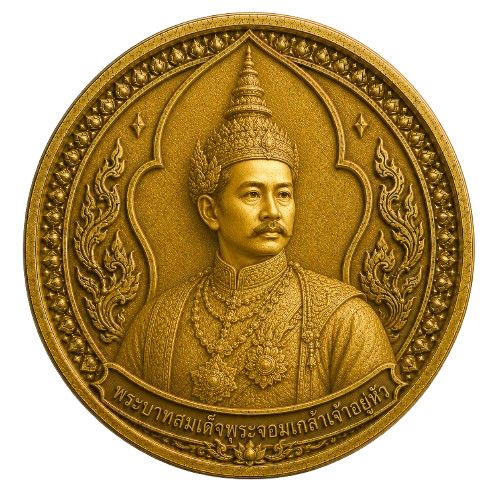
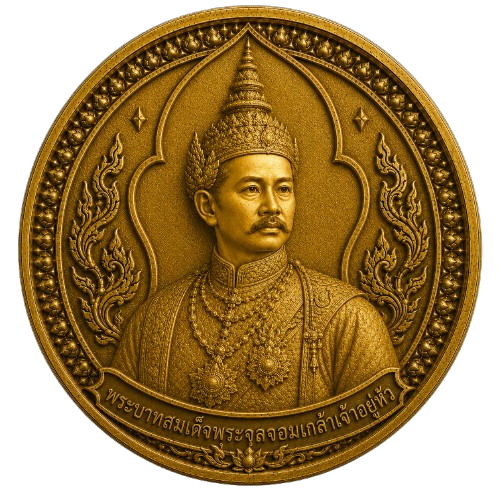
Tell Rama IV and Rama V apart on coins, cards and labels
Checking the two Rattanakosin kings against each other turned up three
places where they were indistinguishable, none of them in the data:
kings.json, cards.json and board-layout.json all bind the right king to
the right card and tile.

- The Rama V coin was engraved "พระบาทสมเด็จพระจอมเกล้าเจ้าอยู่หัว", the
  same caption as the Rama IV coin, missing "จุล". The portraits differ,
  the lettering did not. New art replaces it. That coin renders in five
  places, the HUD and the museum among them, so a player collecting all
  seven saw the same name twice.

- seed.sql filled gold_quiz with SELECT ... FROM quiz, which is exactly
  what CLAUDE.md rules out. A teacher who seeded the database and let the
  game sync got two gold cards per king instead of one, drawn at random,
  with questions that do not match the ones printed on the physical AR
  cards the children are holding. The seven rows are now written out
  from cards.json.gold, in kings.json order, rewards back at 120.

- Every short-name helper drops the "(รัชกาลที่ ๔)" suffix, leaving
  Rama I, IV and V sharing a fifteen character prefix. Two labels then
  clip that with nowrap and ellipsis, so all three read
  "พระบาทสมเด็จพร…". kingShortLabel drops the honorific and leads with
  the reign number instead, which puts what distinguishes them in the
  first three characters no matter how hard the text is cut.

The collection card also stops clipping to one line. Its text column is
[…]

diff --git a/src/components/KingCollection.tsx b/src/components/KingCollection.tsx
@@ -1,6 +1,6 @@
 import { useState } from 'react';
 import { useGame, clampTargetCoins } from '@/core/store';
-import { KINGS } from '@/core/content';
+import { KINGS, kingShortLabel } from '@/core/content';
 import { getKingCoinImage } from '@/core/kingAssets';
 import { color, radius } from '@/theme/tokens';
 import { KingDetailModal } from './KingDetailModal';
@@ -135,12 +135,18 @@ export function KingCollection() {
                     fontSize: 12,
                     fontWeight: 800,
                     color: color.text,
-                    whiteSpace: 'nowrap',
+                    lineHeight: 1.15,
+                    // ยอมให้ขึ้นบรรทัดสองแทน nowrap+ellipsis — ช่องนี้กว้างแค่ ~73px
+                    // (sidebar 280px) บรรทัดเดียวตัดเหลือ ~10 ตัว ซึ่งสั้นกว่าจุดที่
+                    // พระนเรศวร/พระนารายณ์ เริ่มต่างกัน (ตัวที่ 11) แถวสูง 44px รับ 2 บรรทัดได้
+                    display: '-webkit-box',
+                    WebkitLineClamp: 2,
+                    WebkitBoxOrient: 'vertical',
                     overflow: 'hidden',
-                    textOverflow: 'ellipsis',
+                    wordBreak: 'break-word',
                   }}
                 >
-                  {won ? shortName(k.name) : '❓ ยังไม่ได้'}
+                  {won ? kingShortLabel(k.name) : '❓ ยังไม่ได้'}
                 </div>
                 <div style={{ fontSize: 11, color: color.textMuted, fontWeight: 700 }}>{k.era}</div>
               </div>
@@ -155,11 +161,6 @@ export function KingCollection() {
       {museumOpen && <CollectionMuseumModal onClose={() => setMuseumOpen(false)} />}
     </div>
   );
-}
-
-// ตัดพระนามยาวให้พอดีการ์ด (เอาส่วนก่อนวงเล็บ)
-function shortName(name: string): string {
-  return name.split('(')[0].trim();
 }
 
 const coinGrid: React.CSSProperties = {

diff --git a/src/core/content.ts b/src/core/content.ts
@@ -22,6 +22,18 @@ const CACHE_KEY = 'bg7_content';
 export const OVERVIEW_KING_ID = 'king_overview';
 export const OVERVIEW_KING_LABEL = 'ภาพรวม 7 มหาราช';
 
+// ชื่อย่อสำหรับ "ช่องแคบที่ตัดด้วย ellipsis" เท่านั้น — ที่กว้างพอให้ใช้ king.name เต็ม
+// ⚠ ร.๑/ร.๔/ร.๕ ใช้คำนำหน้า "พระบาทสมเด็จพระ" ร่วมกัน 15 ตัวอักษร และ ร.๔/ร.๕ ต่างกัน
+// แค่ "จุล" ที่ตัวที่ 16 → ช่องแคบ ๆ (เช่นการ์ดสะสมในแถบข้าง กว้าง ~84px ≈ 13 ตัว) จะตัด
+// ก่อนถึงตัวที่แยกความต่างเสมอ แล้วทั้งสามพระองค์แสดงเป็น "พระบาทสมเด็จพร…" เหมือนกันหมด
+// จึงตัดคำนำหน้าทิ้งแล้วเอาเลขรัชกาลขึ้นหน้า = ตัวแยกความต่างอยู่ในไม่กี่ตัวอักษรแรกเสมอ
+export function kingShortLabel(name: string): string {
+  const m = name.match(/^(.*?)\s*\(([^)]*)\)\s*$/);
+  const main = (m ? m[1] : name).replace(/^พระบาทสมเด็จพระ/, '').trim();
+  const rank = m ? m[2].replace('รัชกาลที่ ', 'ร.') : null;
+  return rank ? `${rank} ${main}` : main;
+}
+
 // ── กลุ่มสาระการเรียนรู้ (8 วิชาตามหลักสูตรแกนกลาง) — ป้าย/ไอคอนใช้ร่วมทั้งการ์ดในเกมและหลังบ้าน ──
 export const SUBJECTS: { id: SubjectArea; label: string; icon: string }[] = [
   { id: 'thai', label: 'ภาษาไทย', icon: '📖' },

diff --git a/src/screens/Home/Home.tsx b/src/screens/Home/Home.tsx
@@ -1,6 +1,6 @@
 import { useEffect, useMemo, useRef, useState } from 'react';
 import { useGame } from '@/core/store';
-import { KINGS } from '@/core/content';
+import { KINGS, kingShortLabel } from '@/core/content';
 import { getKingPawnImage } from '@/core/kingAssets';
 import { sfx } from '@/core/sfx';
 import { enterFullscreen } from '@/core/viewportLock';
@@ -623,7 +623,7 @@ export function Home() {
                           marginTop: 3,
                         }}
                       >
-                        {king ? splitKingName(king.name).main : 'ยังไม่เลือกกษัตริย์'}
+                        {king ? kingShortLabel(king.name) : 'ยังไม่เลือกกษัตริย์'}
                       </span>
                     </span>
                     <span style={{ flexShrink: 0, fontWeight: 700, fontSize: king ? 16 : 11, color: PC[i] }}>
